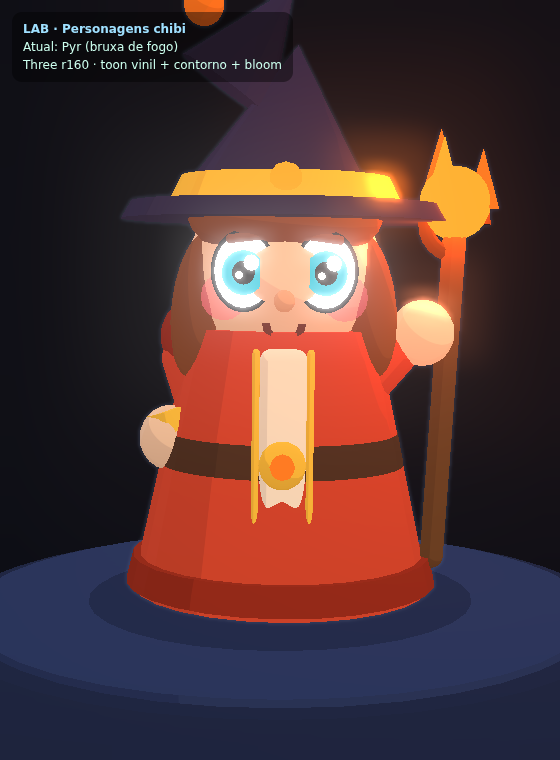
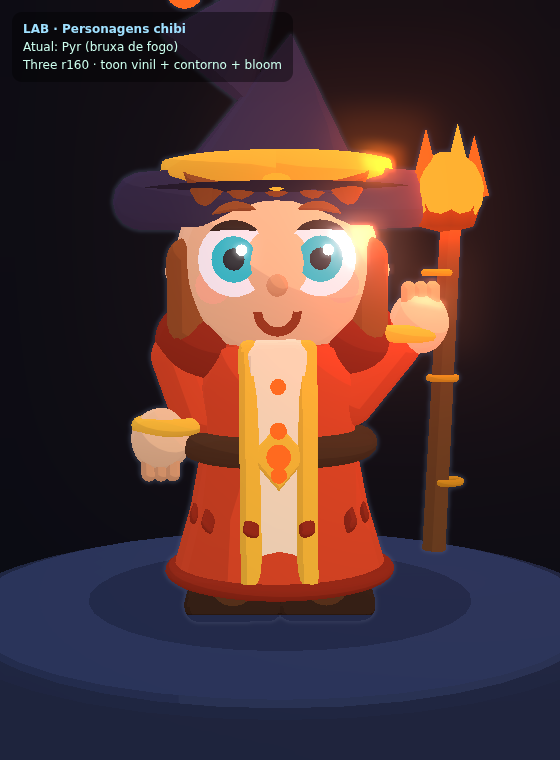
feat(lab): NOVO toolkit de alta densidade (sculpt.js) + Pyr refeita estilo Clash
Vira a chave do estilo conforme pedido: apagar primitivas cruas e refazer com
mesh detalhada/cartoon (Clash Royale). sculpt.js: bevel-extrude (placas/lâminas),
lathe (orbe/elmo/sino/cajado), primitivas suaves subdivididas, material toon
macio (gradiente 5 bandas), olho cartoon (sem glow por padrão). Pyr reconstruída:
robe-sino com dobras, estola dourada+gemas, capa em camadas, chapéu com aba/banda/
brasa, mãos com dedos, cajado com anéis+orbe facetado+labaredas. Contorno bold
(OutlinePass edgeThickness 2.2). Verificado headless: ERROS=[].

https://claude.ai/code/session_01FsKks2LfpRXbTiAL1QZHxj

diff --git a/lab/hero.js b/lab/hero.js
@@ -1,138 +1,162 @@
-// hero.js — PYR, a bruxa de fogo (HERÓI jogável). Original, baseado na ficha de
-// arte do usuário (lab/concept/pyr-heroi.png): bruxa chibi, chapéu pontudo dobrado,
-// robe + capa laranja-vermelho, cajado com ORBE DE FOGO. Tema fogo (vida) vs. gelo
-// (A Maré). Proporção pelo esqueleto `hero` (cabeça grande, postura ágil).
-// Contorno = silhueta única no viewer (OutlinePass); aqui só volumes limpos.
+// hero.js — PYR, a bruxa de fogo (HERÓI). REFEITO no toolkit de alta densidade
+// (sculpt.js): formas chanfradas/lathe, sombreado toon macio, muito detalhe de
+// superfície — alvo estilo Clash Royale. Base: lab/concept/pyr-heroi.png.
+// Contorno = silhueta única (OutlinePass no viewer).
 //
-// buildHeroMage(opts) → { model, orb, lights } (nome mantido p/ não quebrar imports).
+// buildHeroMage(opts) → { model, orb, lights } (nome mantido p/ os imports).
 
 import {
-  THREE, vinyl, glow, rbox, ball, blob, cone, capsule, glove,
-  eye, blush,
-} from './chibi.js';
+  THREE, mat, emis, plate, polyShape, slab, lathe, sphere, ellip, caps,
+  cyl, cone, torus, glowBall, glowMesh, eye,
+} from './sculpt.js';
 
 export function buildHeroMage(opts = {}) {
-  const ROBE = opts.robe ?? 0xd8472a;   // laranja-vermelho vivo (brasa)
-  const ROBE2 = opts.robe2 ?? 0x9c2c18;  // forro/sombra (vermelho fundo)
-  const CREAM = 0xffe6c0;                // painel/estola clara
-  const GOLD = 0xffc23a;
-  const SKIN = opts.skin ?? 0xf4c79c;   // pele jovem
-  const HATC = opts.hat ?? 0x352b46;    // chapéu ameixa-escuro
-  const HAIR = opts.hair ?? 0x8a4a24;   // cabelo ruivo-acobreado
-  const ORBC = opts.orb ?? 0xffb02e;    // fogo (orbe)
-  const FLAME = 0xff7a1e;
+  const ROBE = 0xe04a26, ROBE2 = 0x9c2c18, CREAM = 0xffe7c4, GOLD = 0xffc23a, GOLDD = 0xcf8f1c;
+  const SKIN = 0xf6c79a, SKIN2 = 0xe2a374;
+  const HATC = 0x3a2f4e, HATC2 = 0x2a2238;
+  const HAIR = 0x9c5226, HAIR2 = 0x6f3717;
+  const ORB = 0xffb02e, FLAME = 0xff6a1e, EYEC = 0x2fc6d6;
 
   const model = new THREE.Group();
-  const HEADR = 0.58;
-  const HEADY = 1.9;
+  const HEADR = 0.6, HEADY = 1.96;
 
-  // ── botas (pontas pra fora do robe) ──
+  // ════════ BOTAS chunky (biqueira arredondada + cano + sola) ════════
   for (const sx of [-1, 1]) {
-    const boot = rbox(0.34, 0.22, 0.5, 0x6b3f22, 0.1);
-    boot.position.set(sx * 0.26, 0.13, 0.12); model.add(boot);
-    const cuff = new THREE.Mesh(new THREE.CylinderGeometry(0.2, 0.22, 0.12, 14), vinyl(ROBE2));
-    cuff.position.set(sx * 0.26, 0.26, 0.04); model.add(cuff);
+    const toe = ellip(0.24, 0.2, 0.34, 0x6b3f22); toe.position.set(sx * 0.27, 0.16, 0.16); model.add(toe);
+    const sole = plate(0.5, 0.12, 0.6, 0x3a2418, 0.06); sole.position.set(sx * 0.27, 0.06, 0.12); model.add(sole);
+    const cuff = cyl(0.22, 0.26, 0.2, ROBE2); cuff.position.set(sx * 0.27, 0.3, 0.02); model.add(cuff);
+    const fold = torus(0.2, 0.04, GOLD, 18); fold.rotation.x = Math.PI/2; fold.position.set(sx * 0.27, 0.38, 0.02); model.add(fold);
   }
 
-  // ── ROBE (cone suave de bruxa — feminino, mas silhueta limpa) ──
-  const robe = new THREE.Mesh(new THREE.CylinderGeometry(0.56, 0.9, 1.5, 28), vinyl(ROBE));
-  robe.position.y = 0.84; model.add(robe);
-  const hem = new THREE.Mesh(new THREE.CylinderGeometry(0.9, 0.94, 0.16, 28), vinyl(ROBE2));
-  hem.position.y = 0.2; model.add(hem);
-  // estola/painel central claro com trim dourado
-  const panel = rbox(0.26, 1.3, 0.12, CREAM, 0.06); panel.position.set(0, 0.86, 0.7); model.add(panel);
+  // ════════ ROBE em sino (lathe suave) + bainha + dobras ════════
+  const robe = lathe([
+    [0.0,0.16],[0.62,0.16],[0.64,0.22],[0.54,0.55],[0.46,0.95],
+    [0.49,1.26],[0.43,1.48],[0.3,1.54],[0.0,1.56],
+  ], ROBE, 44);
+  robe.position.y = 0; model.add(robe);
+  const hem = torus(0.62, 0.08, ROBE2, 40); hem.rotation.x = Math.PI/2; hem.position.y = 0.18; hem.scale.set(1,1,0.6); model.add(hem);
+  // dobras verticais (relevo de pano) ao redor do sino
+  for (let i = 0; i < 10; i++) {
+    const a = (i/10) * Math.PI * 2;
+    const fold = caps(0.045, 0.7, ROBE2); fold.position.set(Math.cos(a)*0.5, 0.55, Math.sin(a)*0.5);
+    fold.scale.set(1,1,0.5); fold.lookAt(Math.cos(a)*2, 0.55, Math.sin(a)*2); fold.rotation.x += Math.PI/2; model.add(fold);
+  }
+
+  // estola central clara + trims dourados (vai do peito à bainha)
+  const stole = plate(0.3, 1.3, 0.1, CREAM, 0.06); stole.position.set(0, 0.86, 0.52); stole.rotation.x = 0.04; model.add(stole);
   for (const sx of [-1, 1]) {
-    const trim = rbox(0.04, 1.3, 0.1, GOLD, 0.02); trim.position.set(sx * 0.15, 0.86, 0.72); model.add(trim);
+    const trim = plate(0.05, 1.3, 0.08, GOLD, 0.02); trim.position.set(sx * 0.16, 0.86, 0.55); model.add(trim);
+  }
+  // botões/gemas na estola
+  for (const yy of [1.3, 1.06, 0.82]) {
+    const b = glowBall(0.05, FLAME); b.position.set(0, yy, 0.6); model.add(b);
   }
 
-  // ── cinto + fivela de brasa ──
-  const belt = new THREE.Mesh(new THREE.CylinderGeometry(0.7, 0.74, 0.18, 28), vinyl(0x53321e));
-  belt.position.y = 0.9; model.add(belt);
-  const buckle = ball(0.13, GOLD); buckle.scale.set(1, 1, 0.5); buckle.position.set(0, 0.9, 0.78); model.add(buckle);
-  const gem = new THREE.Mesh(new THREE.IcosahedronGeometry(0.07, 1), glow(FLAME));
-  gem.position.set(0, 0.9, 0.84); gem.userData.noOutline = true; model.add(gem);
+  // ════════ CINTO + fivela losango com brasa ════════
+  const belt = torus(0.5, 0.1, 0x53321e, 32); belt.rotation.x = Math.PI/2; belt.position.y = 0.92; belt.scale.set(1,1,0.85); model.add(belt);
+  const buckle = slab(polyShape([[0,0.16],[0.14,0],[0,-0.16],[-0.14,0]]), 0.08, GOLD, 0.02);
+  buckle.position.set(0, 0.92, 0.56); model.add(buckle);
+  const bgem = glowBall(0.07, FLAME); bgem.position.set(0, 0.92, 0.62); model.add(bgem);
 
-  // ── ombros (estreitos, femininos) + gola ──
-  const shoulders = rbox(1.0, 0.38, 0.56, ROBE, 0.2); shoulders.position.y = 1.48; model.add(shoulders);
+  // ════════ TRONCO/ombros + gola ════════
+  const chest = ellip(0.44, 0.4, 0.36, ROBE); chest.position.set(0, 1.4, 0.02); model.add(chest);
   for (const sx of [-1, 1]) {
-    const pad = blob(0.26, 0.24, 0.28, ROBE2); pad.position.set(sx * 0.48, 1.54, 0.02); model.add(pad);
+    const pad = ellip(0.28, 0.24, 0.3, ROBE2); pad.position.set(sx * 0.46, 1.52, 0.02); model.add(pad);
+    const pt = torus(0.16, 0.04, GOLD, 16); pt.rotation.x = Math.PI/2; pt.position.set(sx * 0.46, 1.62, 0.04); model.add(pt);
   }
-  const collar = new THREE.Mesh(new THREE.CylinderGeometry(0.28, 0.38, 0.18, 20), vinyl(ROBE2));
-  collar.position.y = 1.7; model.add(collar);
+  const collar = lathe([[0.26,0],[0.4,0.16],[0.3,0.2]], ROBE2, 28); collar.position.y = 1.64; model.add(collar);
 
-  // ── CAPA esvoaçante atrás (vermelho fundo, forro quente) ──
-  const cape = rbox(0.96, 1.5, 0.14, ROBE2, 0.32);
-  cape.position.set(0, 1.18, -0.46); cape.rotation.x = 0.12; model.add(cape);
-  const capeIn = rbox(0.7, 1.3, 0.06, 0xc2381f, 0.28);
-  capeIn.position.set(0, 1.2, -0.4); capeIn.rotation.x = 0.12; model.add(capeIn);
+  // ════════ CAPA atrás (placa chanfrada com barra recortada) ════════
+  const capeShape = (() => {
+    const s = new THREE.Shape();
+    s.moveTo(-0.5, 0.8); s.lineTo(0.5, 0.8);
+    s.lineTo(0.42, -0.7); s.quadraticCurveTo(0.25, -0.8, 0.15, -0.6);
+    s.quadraticCurveTo(0, -0.78, -0.15, -0.6); s.quadraticCurveTo(-0.25, -0.8, -0.42, -0.7);
+    s.closePath(); return s;
+  })();
+  const cape = slab(capeShape, 0.1, ROBE2, 0.04); cape.position.set(0, 1.1, -0.42); cape.rotation.x = 0.14; model.add(cape);
+  const capeIn = slab(capeShape, 0.04, 0xc2381f, 0.02); capeIn.scale.set(0.8,0.86,1); capeIn.position.set(0, 1.12, -0.34); capeIn.rotation.x = 0.14; model.add(capeIn);
 
-  // ── braços: esquerdo baixo, direito erguido segurando o cajado ──
-  const armL = capsule(0.15, 0.36, ROBE); armL.position.set(-0.52, 1.24, 0.06);
-  armL.rotation.z = 0.32; model.add(armL);
-  const handL = glove(0.19, SKIN); handL.position.set(-0.66, 0.96, 0.14); model.add(handL);
-  const cuffL = new THREE.Mesh(new THREE.CylinderGeometry(0.18, 0.2, 0.12, 14), vinyl(GOLD));
-  cuffL.position.set(-0.62, 1.08, 0.12); cuffL.rotation.z = 0.32; model.add(cuffL);
+  // ════════ BRAÇOS (manga + luva com dedos) ════════
+  function arm(sx, raised) {
+    const g = new THREE.Group();
+    const sleeve = caps(0.16, raised ? 0.42 : 0.36, ROBE);
+    const cuff = torus(0.17, 0.05, GOLD, 18);
+    const hand = sphere(0.18, SKIN, 20);
+    if (raised) {
+      sleeve.position.set(0.56, 1.34, 0.08); sleeve.rotation.z = -0.7;
+      cuff.position.set(0.78, 1.56, 0.1); cuff.rotation.z = -0.7; cuff.rotation.x = Math.PI/2;
+      hand.position.set(0.84, 1.62, 0.12);
+    } else {
+      sleeve.position.set(-0.54, 1.26, 0.06); sleeve.rotation.z = 0.34;
+      cuff.position.set(-0.66, 1.04, 0.12); cuff.rotation.z = 0.34; cuff.rotation.x = Math.PI/2;
+      hand.position.set(-0.7, 0.96, 0.14);
+    }
+    g.add(sleeve, cuff, hand);
+    // dedos (3 capsulinhas)
+    for (const k of [-1, 0, 1]) {
+      const f = caps(0.045, 0.1, SKIN2);
+      f.position.copy(hand.position).add(new THREE.Vector3(k * 0.07, raised ? 0.14 : -0.14, 0.06));
+      g.add(f);
+    }
+    return g;
+  }
+  model.add(arm(-1, false), arm(1, true));
 
-  const armR = capsule(0.15, 0.42, ROBE); armR.position.set(0.52, 1.32, 0.1);
-  armR.rotation.z = -0.72; model.add(armR);
-  const handR = glove(0.19, SKIN); handR.position.set(0.82, 1.58, 0.14); model.add(handR);
+  // ════════ CABEÇA + rosto detalhado ════════
+  const head = sphere(HEADR, SKIN, 32); head.scale.set(1.02, 1, 0.98); head.position.y = HEADY; model.add(head);
+  for (const sx of [-1, 1]) { const ear = sphere(0.1, SKIN, 16); ear.position.set(sx * HEADR * 0.96, HEADY - 0.04, -0.02); model.add(ear); }
 
-  // ── CABEÇA chibi (feminina: sem barba, olhos grandes, bochecha rosada) ──
-  const head = ball(HEADR, SKIN); head.position.y = HEADY; head.scale.set(1.02, 1, 0.98); model.add(head);
-  for (const sx of [-1, 1]) { const ear = ball(0.1, SKIN); ear.position.set(sx * HEADR * 0.95, HEADY - 0.04, -0.02); model.add(ear); }
-
-  // franja + mechas de cabelo (sob o chapéu)
-  const fringe = blob(0.56, 0.22, 0.3, HAIR); fringe.position.set(0, HEADY + 0.3, HEADR * 0.5); model.add(fringe);
+  // olhos grandes + cílios + sobrancelhas
   for (const sx of [-1, 1]) {
-    const lock = blob(0.16, 0.42, 0.18, HAIR); lock.position.set(sx * 0.5, HEADY - 0.18, HEADR * 0.32);
-    lock.rotation.z = sx * 0.12; model.add(lock);
-    // ponta da mecha (cone) pra dar bico
-    const tip = cone(0.12, 0.3, HAIR, 12); tip.position.set(sx * 0.54, HEADY - 0.5, HEADR * 0.28);
-    tip.rotation.z = Math.PI + sx * 0.2; model.add(tip);
+    const e = eye(0.2, EYEC); e.position.set(sx * 0.24, HEADY + 0.02, HEADR * 0.93); model.add(e);
+    const lash = slab(roundRectArc(0.24, 0.05), 0.03, 0x3a241a, 0.01); lash.position.set(sx * 0.24, HEADY + 0.2, HEADR * 0.92); lash.userData.noOutline = true; model.add(lash);
+    const brow = slab(roundRectArc(0.22, 0.05), 0.04, HAIR, 0.01); brow.position.set(sx * 0.24, HEADY + 0.3, HEADR * 0.88); brow.rotation.z = sx * -0.1; model.add(brow);
   }
+  const nose = ellip(0.06, 0.06, 0.08, SKIN2); nose.position.set(0, HEADY - 0.12, HEADR * 0.98); model.add(nose);
+  const smile = glowMesh(new THREE.TorusGeometry(0.11, 0.025, 8, 18, Math.PI), 0x9c3318);
+  smile.position.set(0, HEADY - 0.26, HEADR * 0.92); smile.rotation.z = Math.PI; model.add(smile);
+  for (const sx of [-1, 1]) { const bl = glowMesh(new THREE.CircleGeometry(0.1, 16), 0xff9a86); bl.position.set(sx * 0.36, HEADY - 0.12, HEADR * 0.85); bl.material.transparent = true; bl.material.opacity = 0.5; model.add(bl); }
 
-  // sobrancelhas finas + olhos grandes (teal, complementar do robe quente) + nariz/boca
+  // CABELO: franja em mechas + duas tranças laterais
+  for (const k of [-2, -1, 0, 1, 2]) {
+    const lock = cone(0.14, 0.34, HAIR, 14); lock.position.set(k * 0.2, HEADY + 0.34, HEADR * 0.62);
+    lock.rotation.x = 0.5; lock.rotation.z = Math.PI + k * 0.05; model.add(lock);
+  }
   for (const sx of [-1, 1]) {
-    const brow = rbox(0.2, 0.05, 0.05, HAIR, 0.02); brow.position.set(sx * 0.23, HEADY + 0.2, HEADR * 0.9);
-    brow.rotation.z = sx * -0.12; model.add(brow);
-    const e = eye(0.2, 0x2fc6d6, 'normal'); e.position.set(sx * 0.23, HEADY + 0.02, HEADR * 0.92);
-    e.userData.noOutline = true; model.add(e);
+    const l1 = caps(0.13, 0.4, HAIR); l1.position.set(sx * 0.52, HEADY - 0.18, HEADR * 0.3); model.add(l1);
+    const l2 = cone(0.12, 0.34, HAIR2, 12); l2.position.set(sx * 0.54, HEADY - 0.5, HEADR * 0.26); l2.rotation.z = Math.PI; model.add(l2);
   }
-  const nose = blob(0.06, 0.06, 0.08, 0xe7a878); nose.position.set(0, HEADY - 0.14, HEADR * 0.98); model.add(nose);
-  for (const sx of [-1, 1]) { const b = blush(0.13); b.position.set(sx * 0.34, HEADY - 0.12, HEADR * 0.86); model.add(b); }
-  // sorriso confiante (arco escuro)
-  const smile = new THREE.Mesh(new THREE.TorusGeometry(0.1, 0.022, 8, 16, Math.PI),
-    new THREE.MeshBasicMaterial({ color: 0x7a2a1a, toneMapped: false }));
-  smile.position.set(0, HEADY - 0.26, HEADR * 0.92); smile.rotation.z = Math.PI; smile.userData.noOutline = true; model.add(smile);
 
-  // ── CHAPÉU pontudo DOBRADO (aba larga + cone + ponta caída com pompom de brasa) ──
-  const brim = new THREE.Mesh(new THREE.CylinderGeometry(0.92, 0.98, 0.1, 28), vinyl(HATC));
-  brim.position.y = HEADY + HEADR * 0.62; brim.scale.set(1, 1, 0.92); model.add(brim);
-  const coneLo = cone(0.6, 0.9, HATC, 26); coneLo.position.set(0.02, HEADY + HEADR * 0.62 + 0.5, -0.02);
-  coneLo.rotation.z = -0.1; model.add(coneLo);
-  const coneHi = cone(0.32, 0.7, HATC, 22); coneHi.position.set(-0.16, HEADY + HEADR * 0.62 + 1.0, -0.06);
-  coneHi.rotation.z = -0.6; model.add(coneHi);
-  const tip = ball(0.12, FLAME); tip.position.set(-0.5, HEADY + HEADR * 0.62 + 1.18, -0.08);
-  tip.userData.noOutline = true; model.add(tip);
-  // banda dourada + brasa
-  const band = new THREE.Mesh(new THREE.CylinderGeometry(0.62, 0.7, 0.16, 26), vinyl(GOLD));
-  band.position.y = HEADY + HEADR * 0.62 + 0.12; model.add(band);
-  const bandGem = new THREE.Mesh(new THREE.IcosahedronGeometry(0.1, 1), glow(ORBC));
-  bandGem.position.set(0, HEADY + HEADR * 0.62 + 0.14, 0.6); bandGem.userData.noOutline = true; model.add(bandGem);
+  // ════════ CHAPÉU pontudo dobrado (aba + cones + ponta + banda) ════════
+  const brim = torus(0.82, 0.16, HATC, 36); brim.rotation.x = Math.PI/2; brim.scale.set(1, 0.5, 1); brim.position.y = HEADY + HEADR * 0.6; model.add(brim);
+  const brimTop = lathe([[0,0.0],[0.5,0.02],[0.82,0.06],[0.82,0.0]], HATC2, 36); brimTop.position.y = HEADY + HEADR * 0.6; model.add(brimTop);
+  const coneLo = cone(0.6, 0.9, HATC, 28); coneLo.position.set(0.04, HEADY + HEADR * 0.6 + 0.5, -0.02); coneLo.rotation.z = -0.12; model.add(coneLo);
+  const coneHi = cone(0.34, 0.75, HATC, 24); coneHi.position.set(-0.18, HEADY + HEADR * 0.6 + 1.04, -0.06); coneHi.rotation.z = -0.66; model.add(coneHi);
+  const tip = glowBall(0.12, FLAME); tip.position.set(-0.54, HEADY + HEADR * 0.6 + 1.22, -0.08); model.add(tip);
+  const band = lathe([[0.6,0],[0.7,0.06],[0.68,0.16],[0.58,0.18]], GOLD, 30); band.position.y = HEADY + HEADR * 0.6 + 0.06; model.add(band);
+  const bandGem = glowBall(0.1, ORB); bandGem.position.set(0, HEADY + HEADR * 0.6 + 0.12, 0.58); model.add(bandGem);
 
-  // ── CAJADO + ORBE DE FOGO (à direita, longe do rosto) ──
-  const staff = capsule(0.07, 2.0, 0x6e4322); staff.position.set(0.96, 1.28, 0.1); staff.rotation.z = -0.05; model.add(staff);
-  const claw = new THREE.Mesh(new THREE.TorusGeometry(0.17, 0.045, 10, 18, Math.PI * 1.5), vinyl(0x4a2c14));
-  claw.position.set(1.0, 2.2, 0.1); model.add(claw);
-  const orb = new THREE.Mesh(new THREE.IcosahedronGeometry(0.21, 3), glow(ORBC));
-  orb.position.set(1.0, 2.32, 0.1); orb.userData.noOutline = true; orb.userData.orb = true; model.add(orb);
-  // labaredas (cones quentes saindo do orbe)
-  for (const a of [0, 1, 2]) {
-    const fl = cone(0.1, 0.34, FLAME, 10); fl.userData.noOutline = true;
-    fl.position.set(1.0 + Math.cos(a * 2.1) * 0.16, 2.46 + a * 0.06, 0.1 + Math.sin(a * 2.1) * 0.1);
-    fl.material = glow(a % 2 ? ORBC : FLAME); model.add(fl);
+  // ════════ CAJADO + ORBE DE FOGO ════════
+  const staff = cyl(0.06, 0.07, 2.0, 0x6e4322); staff.position.set(0.98, 1.3, 0.12); staff.rotation.z = -0.05; model.add(staff);
+  for (const yy of [0.7, 1.3, 1.9]) { const ring = torus(0.08, 0.02, GOLDD, 16); ring.rotation.x = Math.PI/2; ring.position.set(0.98 + (1.3-yy)*0.05, yy, 0.12); model.add(ring); }
+  const claw = lathe([[0.0,0],[0.16,0.04],[0.2,0.16],[0.12,0.28],[0.0,0.3]], 0x4a2c14, 8);
+  claw.position.set(1.0, 2.12, 0.12); model.add(claw);
+  const orb = new THREE.Mesh(new THREE.IcosahedronGeometry(0.22, 2), emis(ORB));
+  orb.position.set(1.0, 2.36, 0.12); orb.userData.noOutline = true; orb.userData.orb = true; model.add(orb);
+  for (let i = 0; i < 5; i++) {
+    const a = (i/5) * Math.PI * 2; const fl = cone(0.09, 0.34, i%2?ORB:FLAME, 8);
+    fl.material = emis(i%2?ORB:FLAME); fl.userData.noOutline = true;
+    fl.position.set(1.0 + Math.cos(a)*0.16, 2.5 + Math.sin(a)*0.06, 0.12 + Math.sin(a)*0.1); model.add(fl);
   }
-  const orbLight = new THREE.PointLight(FLAME, 2.4, 4.6, 2); orbLight.position.copy(orb.position); model.add(orbLight);
+  const orbLight = new THREE.PointLight(FLAME, 2.6, 5, 2); orbLight.position.set(1.0, 2.4, 0.12); model.add(orbLight);
 
   return { model, orb, lights: [orbLight] };
+}
+
+// arco achatado p/ cílio/sobrancelha (retângulo arredondado bem fino)
+function roundRectArc(w, h) {
+  const s = new THREE.Shape();
+  s.moveTo(-w/2, 0); s.quadraticCurveTo(0, h*1.6, w/2, 0); s.quadraticCurveTo(0, h*0.4, -w/2, 0);
+  s.closePath(); return s;
 }

diff --git a/lab/sculpt.js b/lab/sculpt.js
@@ -1,0 +1,93 @@
+// sculpt.js — TOOLKIT de modelagem de ALTA DENSIDADE (estilo Clash Royale).
+// Substitui o chibi.js de primitivas cruas: aqui as peças têm BEVEL (cantos
+// chanfrados/robustos), perfis LATHE (revolução suave) e geometria subdividida,
+// com material TOON de sombreado macio. O contorno é a silhueta única (OutlinePass)
+// no viewer — então NÃO desenhamos contorno por-peça.
+//
+// Meta visual: formas grandes e arredondadas, bordas chanfradas "de brinquedo",
+// cores saturadas, muito detalhe de superfície (placas, rebites, dobras, tiras).
+
+import { THREE } from './chibi.js';
+
+// ── material TOON macio (Clash: poucas bandas, transição suave) ──
+function makeGrad(stops) {
+  const data = new Uint8Array(stops.length * 4);
+  stops.forEach((v, i) => { const c = Math.round(v * 255); data[i*4]=c; data[i*4+1]=c; data[i*4+2]=c; data[i*4+3]=255; });
+  const t = new THREE.DataTexture(data, stops.length, 1, THREE.RGBAFormat);
+  t.needsUpdate = true; t.minFilter = THREE.LinearFilter; t.magFilter = THREE.LinearFilter;
+  return t;
+}
+export const TOON = makeGrad([0.32, 0.5, 0.72, 0.9, 1.0]);
+
+export function mat(color, opts = {}) {
+  return new THREE.MeshToonMaterial({ color, gradientMap: TOON, ...opts });
+}
+export function emis(color) { return new THREE.MeshBasicMaterial({ color, toneMapped: false }); }
+
+// ── shapes 2D ──
+export function roundRect(w, h, r) {
+  const s = new THREE.Shape();
+  const x = -w/2, y = -h/2;
+  s.moveTo(x + r, y);
+  s.lineTo(x + w - r, y); s.quadraticCurveTo(x + w, y, x + w, y + r);
+  s.lineTo(x + w, y + h - r); s.quadraticCurveTo(x + w, y + h, x + w - r, y + h);
+  s.lineTo(x + r, y + h); s.quadraticCurveTo(x, y + h, x, y + h - r);
+  s.lineTo(x, y + r); s.quadraticCurveTo(x, y, x + r, y);
+  return s;
+}
+// polígono/estrela/losango por raio
+export function polyShape(points) {
+  const s = new THREE.Shape();
+  points.forEach((p, i) => i ? s.lineTo(p[0], p[1]) : s.moveTo(p[0], p[1]));
+  s.closePath(); return s;
+}
+
+// ── peça CHANFRADA (extrude com bevel) — placas, escudos, lâminas, fivelas ──
+export function slab(shape, depth = 0.2, color = 0xffffff, bevel = 0.04) {
+  const g = new THREE.ExtrudeGeometry(shape, {
+    depth, bevelEnabled: true, bevelThickness: bevel, bevelSize: bevel, bevelSegments: 3, steps: 1,
+  });
+  g.center(); g.computeVertexNormals();
+  return new THREE.Mesh(g, mat(color));
+}
+export function plate(w, h, depth, color, r = 0.08, bevel = 0.035) {
+  return slab(roundRect(w, h, r), depth, color, bevel);
+}
+
+// ── LATHE (revolução de um perfil [[x,y],...]) — orbe, elmo, sino do robe, cajado ──
+export function lathe(profile, color, seg = 36) {
+  const pts = profile.map(p => new THREE.Vector2(p[0], p[1]));
+  const g = new THREE.LatheGeometry(pts, seg); g.computeVertexNormals();
+  return new THREE.Mesh(g, mat(color));
+}
+
+// ── primitivas suaves (alta subdivisão) ──
+export function sphere(r, color, seg = 28) { return new THREE.Mesh(new THREE.SphereGeometry(r, seg, seg), mat(color)); }
+export function ellip(rx, ry, rz, color, seg = 28) { const m = sphere(1, color, seg); m.scale.set(rx, ry, rz); return m; }
+export function caps(r, len, color) { return new THREE.Mesh(new THREE.CapsuleGeometry(r, len, 10, 18), mat(color)); }
+export function cyl(rt, rb, h, color, seg = 28) { return new THREE.Mesh(new THREE.CylinderGeometry(rt, rb, h, seg), mat(color)); }
+export function cone(r, h, color, seg = 24) { return new THREE.Mesh(new THREE.ConeGeometry(r, h, seg), mat(color)); }
+export function torus(r, t, color, seg = 28, arc = Math.PI * 2) { return new THREE.Mesh(new THREE.TorusGeometry(r, t, 14, seg, arc), mat(color)); }
+
+// ── peças emissivas (orbe/olhos/brasa) — sem contorno ──
+export function glowBall(r, color, seg = 20) { const m = new THREE.Mesh(new THREE.IcosahedronGeometry(r, 2), emis(color)); m.userData.noOutline = true; return m; }
+export function glowMesh(geo, color) { const m = new THREE.Mesh(geo, emis(color)); m.userData.noOutline = true; return m; }
+
+// ── olho cartoon (esclera branca + íris + brilho), montado em grupo plano ──
+export function eye(size = 0.2, iris = 0x2fc6d6, glowEye = false) {
+  const g = new THREE.Group();
+  const sclera = glowEye ? emis : mat;   // monstros podem ter olho que brilha
+  const white = new THREE.Mesh(new THREE.CircleGeometry(size, 22), sclera(glowEye ? iris : 0xf4f8ff));
+  const ir = new THREE.Mesh(new THREE.CircleGeometry(size * 0.62, 20), sclera(iris)); ir.position.z = 0.01;
+  const pup = new THREE.Mesh(new THREE.CircleGeometry(size * 0.3, 16), mat(0x141824)); pup.position.z = 0.02;
+  const sh = new THREE.Mesh(new THREE.CircleGeometry(size * 0.16, 12), emis(0xffffff));
+  sh.position.set(size * 0.22, size * 0.24, 0.03);
+  g.add(white, ir, pup, sh); g.traverse(o => o.userData.noOutline = true);
+  return g;
+}
+
+// ── utilidades ──
+// agrupa N peças idênticas espelhadas em x (sx = -1 e 1)
+export function mirror(build) { const g = new THREE.Group(); for (const sx of [-1, 1]) g.add(build(sx)); return g; }
+
+export { THREE };

diff --git a/lab/characters.html b/lab/characters.html
@@ -25,7 +25,7 @@
 <div id="hud">
   <div><b>LAB · Personagens chibi</b></div>
   <div>Atual: <span id="who">Mago Herói</span></div>
-  <div>Three r<span id="rev">?</span> · toon vinil + contorno + bloom</div>
+  <div>Three r<span id="rev">?</span> · mesh detalhada (sculpt) + contorno + bloom</div>
   <div id="err"></div>
 </div>
 
@@ -111,9 +111,9 @@ loadChar();
 const composer = new EffectComposer(renderer);
 composer.addPass(new RenderPass(scene, camera));
 const outline = new OutlinePass(new THREE.Vector2(1,1), scene, camera, [model]);
-outline.edgeStrength = 5.0;
+outline.edgeStrength = 6.5;
 outline.edgeGlow = 0.0;
-outline.edgeThickness = 1.4;
+outline.edgeThickness = 2.2;
 outline.pulsePeriod = 0;
 outline.visibleEdgeColor.set('#0b0d14');
 outline.hiddenEdgeColor.set('#0b0d14');
